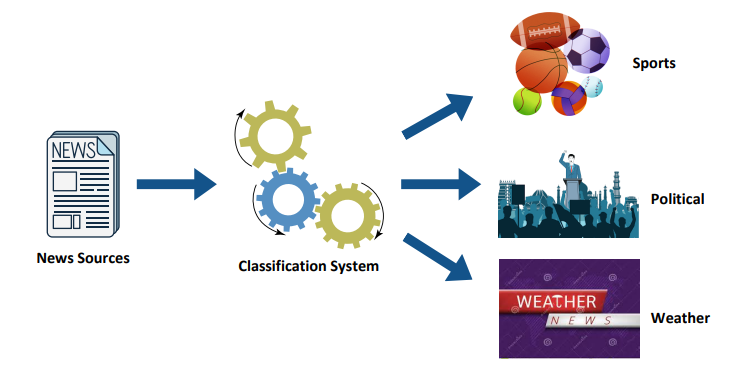
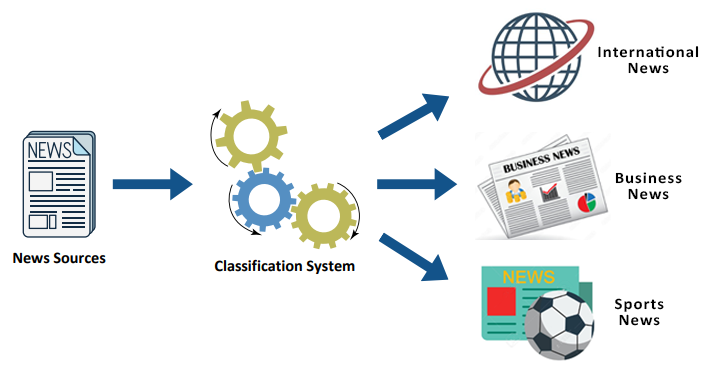
overview img updated

diff --git a/templates/index.html b/templates/index.html
@@ -11,6 +11,7 @@
 
     <div class="split left">
         <div class="centered">
+            <h2>Automatically Categorizing Sinhala News Items</h2>
             <img src="../static/products/prod1.jpg" alt="">
         </div>
     </div>
@@ -21,10 +22,13 @@
             <div class="d-flex justify-content-center row">
                 <div class="d-flex flex-column col-md-8">
                     <div>
-                        <label for="">Positive Sentiments : {{ data.positive }}</label>
+                        <label for="">International News : {{ data.positive }}</label>
                     </div>
                     <div>
-                        <label for="">Negative Sentiments : {{ data.negative }}</label>
+                        <label for="">Business News : {{ data.negative }}</label>
+                    </div>
+                    <div>
+                        <label for="">Sport News : {{ data.negative }}</label>
                     </div>
                     <div>
                         <form method="post">
